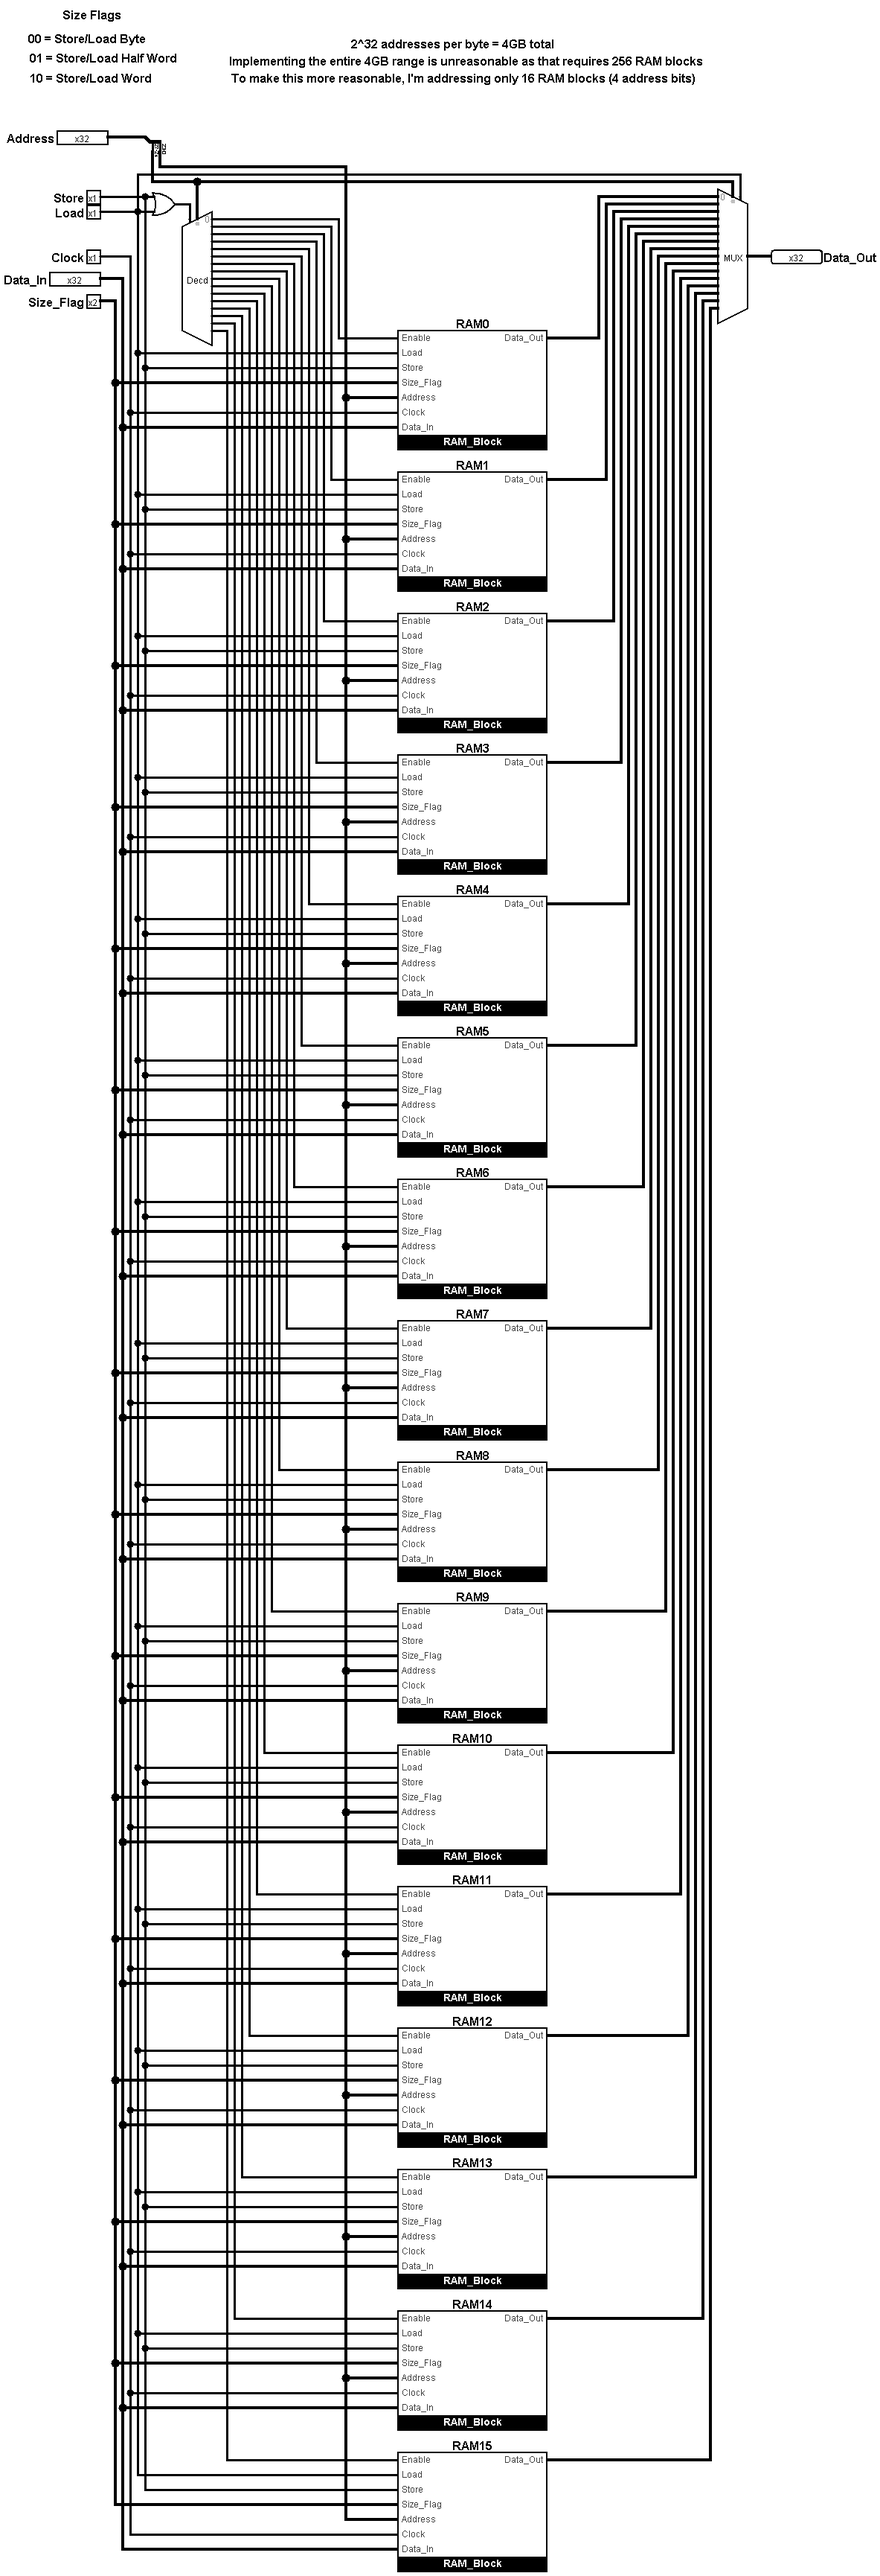
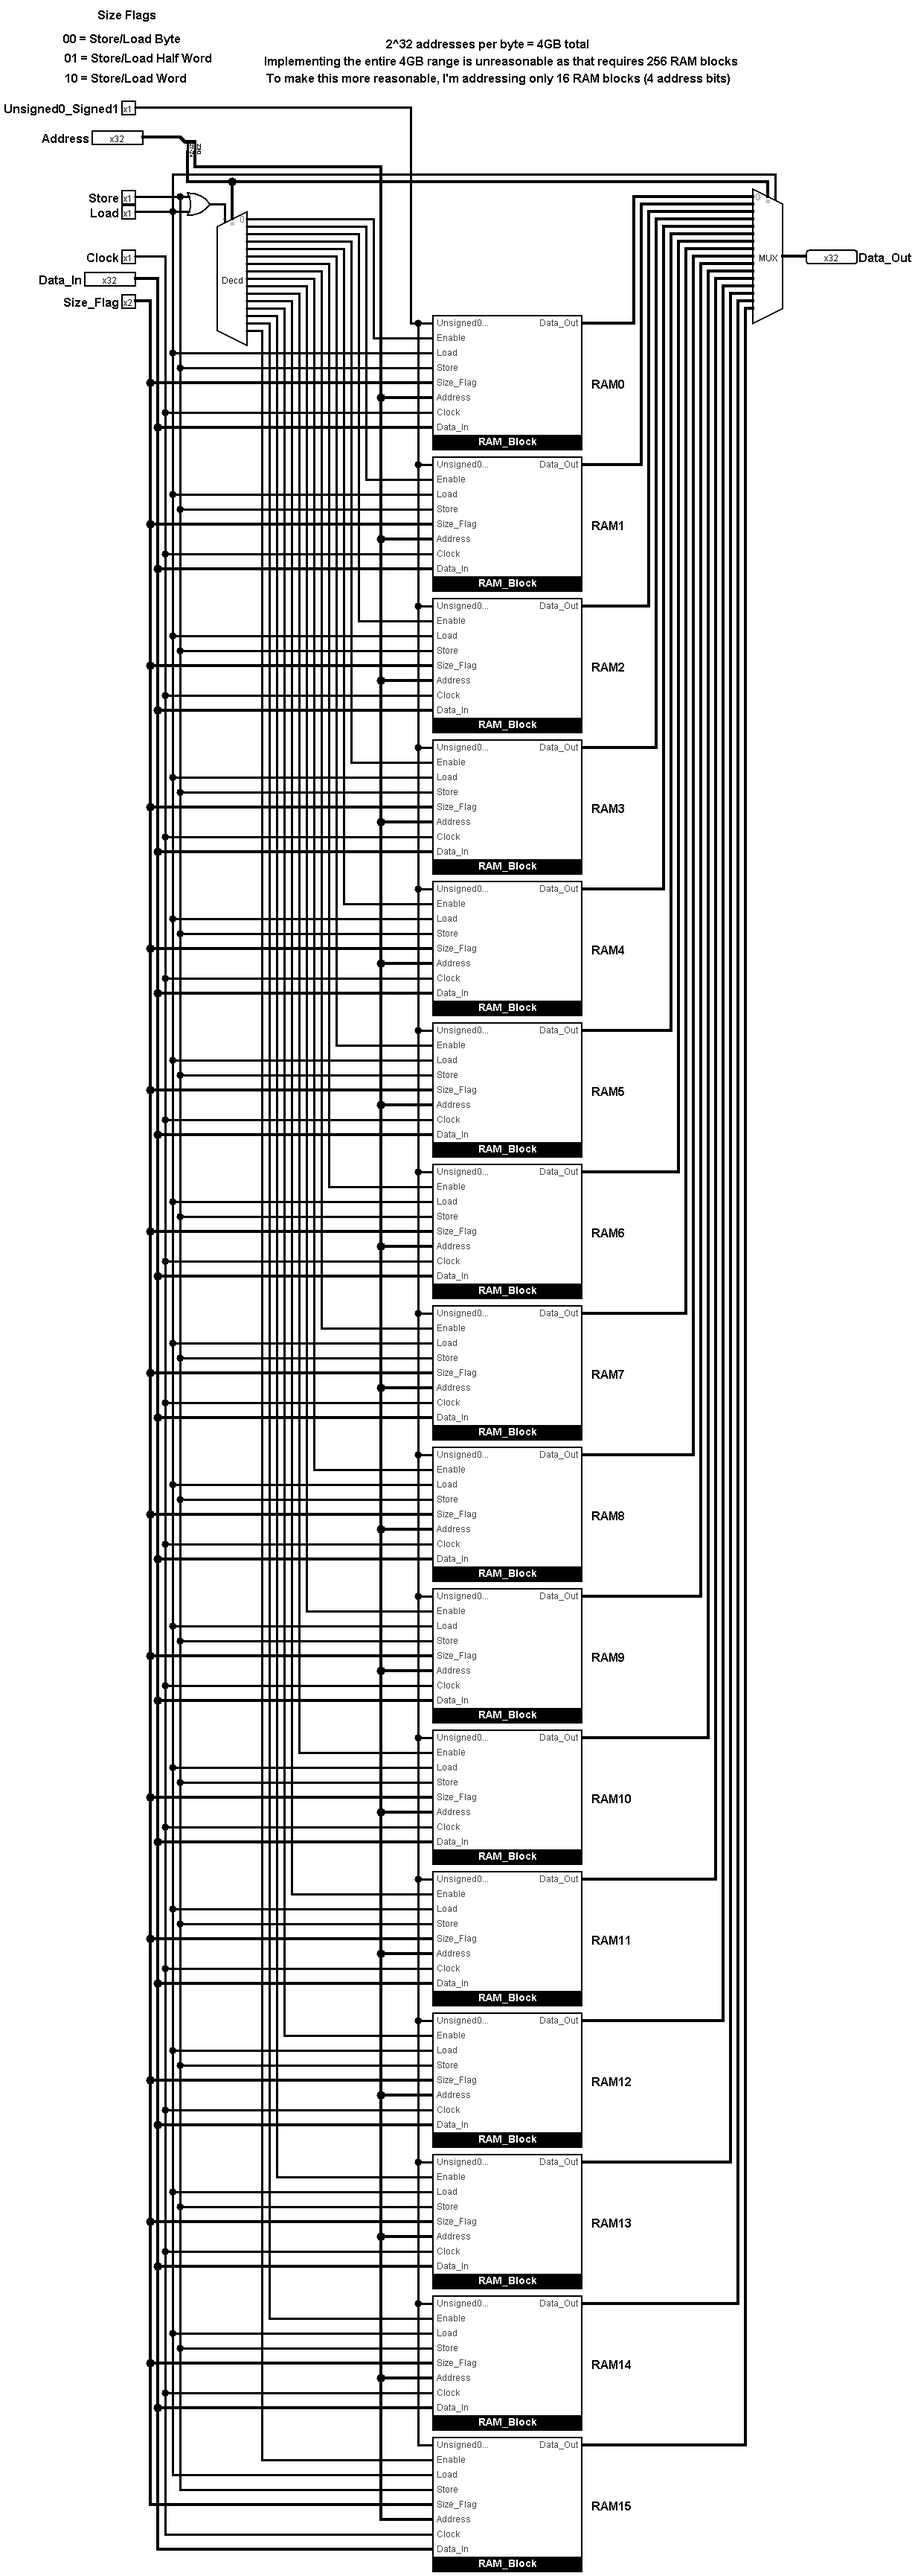
Fixed some mistakes in the Memory unit

diff --git a/README.md b/README.md
@@ -355,9 +355,10 @@ Up next is the memory. I'm not implementing CPU caching yet. That will be done l
 
 <ins>RAM Block</ins>
 
-I will create a RAM block submodule that I will implement address decoding for. In this submodule, there are 7 inputs and 1 output.
+I will create a RAM block submodule that will I will split the addressing for. In this RAM block, there are 8 inputs and 1 output.
 
 - Inputs
+	- Unsigned0_Signed1: This will be an input to the bit extenders. In these, I can choose to either zero extend or "one" extend the output. If I choose the "sign mode" on the bit extenders, it will sign extend if I choose load a byte unsigned. If I choose the "input mode" on the bit extenders, it will blindly one or zero extend depending on the input. If I want it to correctly load a byte/half word signed or unsigned with the correct extension, I need to AND the unsigned/signed input flag with the **most significant bit** of the respective data output. That's why I included AND gates at the bit extenders.
 	- Enable: This will enable either the loading or storing modes of the RAM block.
 	- Load: This will flag the RAM modules in the RAM block to output data.
 	- Store: This will flag the RAM modules in the RAM block to save data from the "Data_In" input.
@@ -370,15 +371,37 @@ I will create a RAM block submodule that I will implement address decoding for. 
 	- Clock: This is the clock signal to synchronously control the RAM modules.
 	- Data_In: This is a 32 bit input that will be stored if the store input is enabled. The "Size_Flag" input will determine if a byte, a half word, or a full word will be stored.
 - Outputs
- 	- Data_Out: This is a 32 bit output that represents the data that is being loaded if the Load input is enabled. The "Size_Flag" input will dietermine if a byte, a half word, or a full word will be loaded.
+ 	- Data_Out: This is a 32 bit output that represents the data that is being loaded if the Load input is enabled. The "Size_Flag" input will determine if a byte, a half word, or a full word will be loaded.
 
 ![RAM Block](./images/Memory/RAM_Block.png)
 
 <ins>Building the Main Memory Unit</ins>
 
-Now I that I have my RAM block submodule, I will make 16 of these. Why? Because I think 16 is a good number. I'm not implementing the full 32 bits of addresses. That will require me to decode out 256 RAM blocks. I'm not doing all that and neither are you (at least in Logisim).
+Now I that I have my RAM block submodule, I will make 16 of these. Why? Because I think 16 is a good number. I'm not implementing the full 32 bits of addresses. That will require me to decode out 256 RAM blocks. I'm not doing all that and neither are you (at least in Logisim).<br>
+
+In this level, I have 16 RAM blocks, 7 inputs, and 1 output.
+
+- Inputs
+	- Unsigned0_Signed1: This will be an input to determine to treat the output data as an unsigned value or a signed value
+		- 0 = Unsigned
+		- 1 = Signed
+	- Enable: This will enable either the loading or storing modes of the RAM block.
+	- Load: This will flag the RAM modules in the RAM block to output data.
+	- Store: This will flag the RAM modules in the RAM block to save data from the "Data_In" input.
+	- Size_Flag: This is a 2 bit input that will signal the RAM block if I want to store or load a byte (8 bits), a half word (16 bits), or a full word (32 bits). Notice in the size flag opcode, I've derived this from the [instruction formatting spreadsheet](./RISC-V-Instructions.xlsx). If an invalid size flag is detected, the RAM block shouldn't do anything.
+		- 00 = Store/Load Byte
+		- 01 = Store/Load Half Word
+		- 10 = Store/Load Word
+		- 11 = Invalid
+	- Address: This is a 24-bit input that will address the individual bytes in the RAM modules.
+	- Clock: This is the clock signal to synchronously control the RAM modules.
+	- Data_In: This is a 32 bit input that will be stored if the store input is enabled. The "Size_Flag" input will determine if a byte, a half word, or a full word will be stored.
+- Outputs
+ 	- Data_Out: This is a 32 bit output that represents the data that is being loaded if the Load input is enabled. The "Size_Flag" input will determine if a byte, a half word, or a full word will be loaded.
 
 ![Memory](./images/Memory/Memory.png)
+
+What I have implemented is not too far off from how FPGAs utilize block RAM. Since we can load and store data in one clock cycle, this may work out for our idealized, non-pipelined model where everything is executed in a single clock cycle. Again, we will build up to a pipelined architecture later.
 
 ## Branching
 
